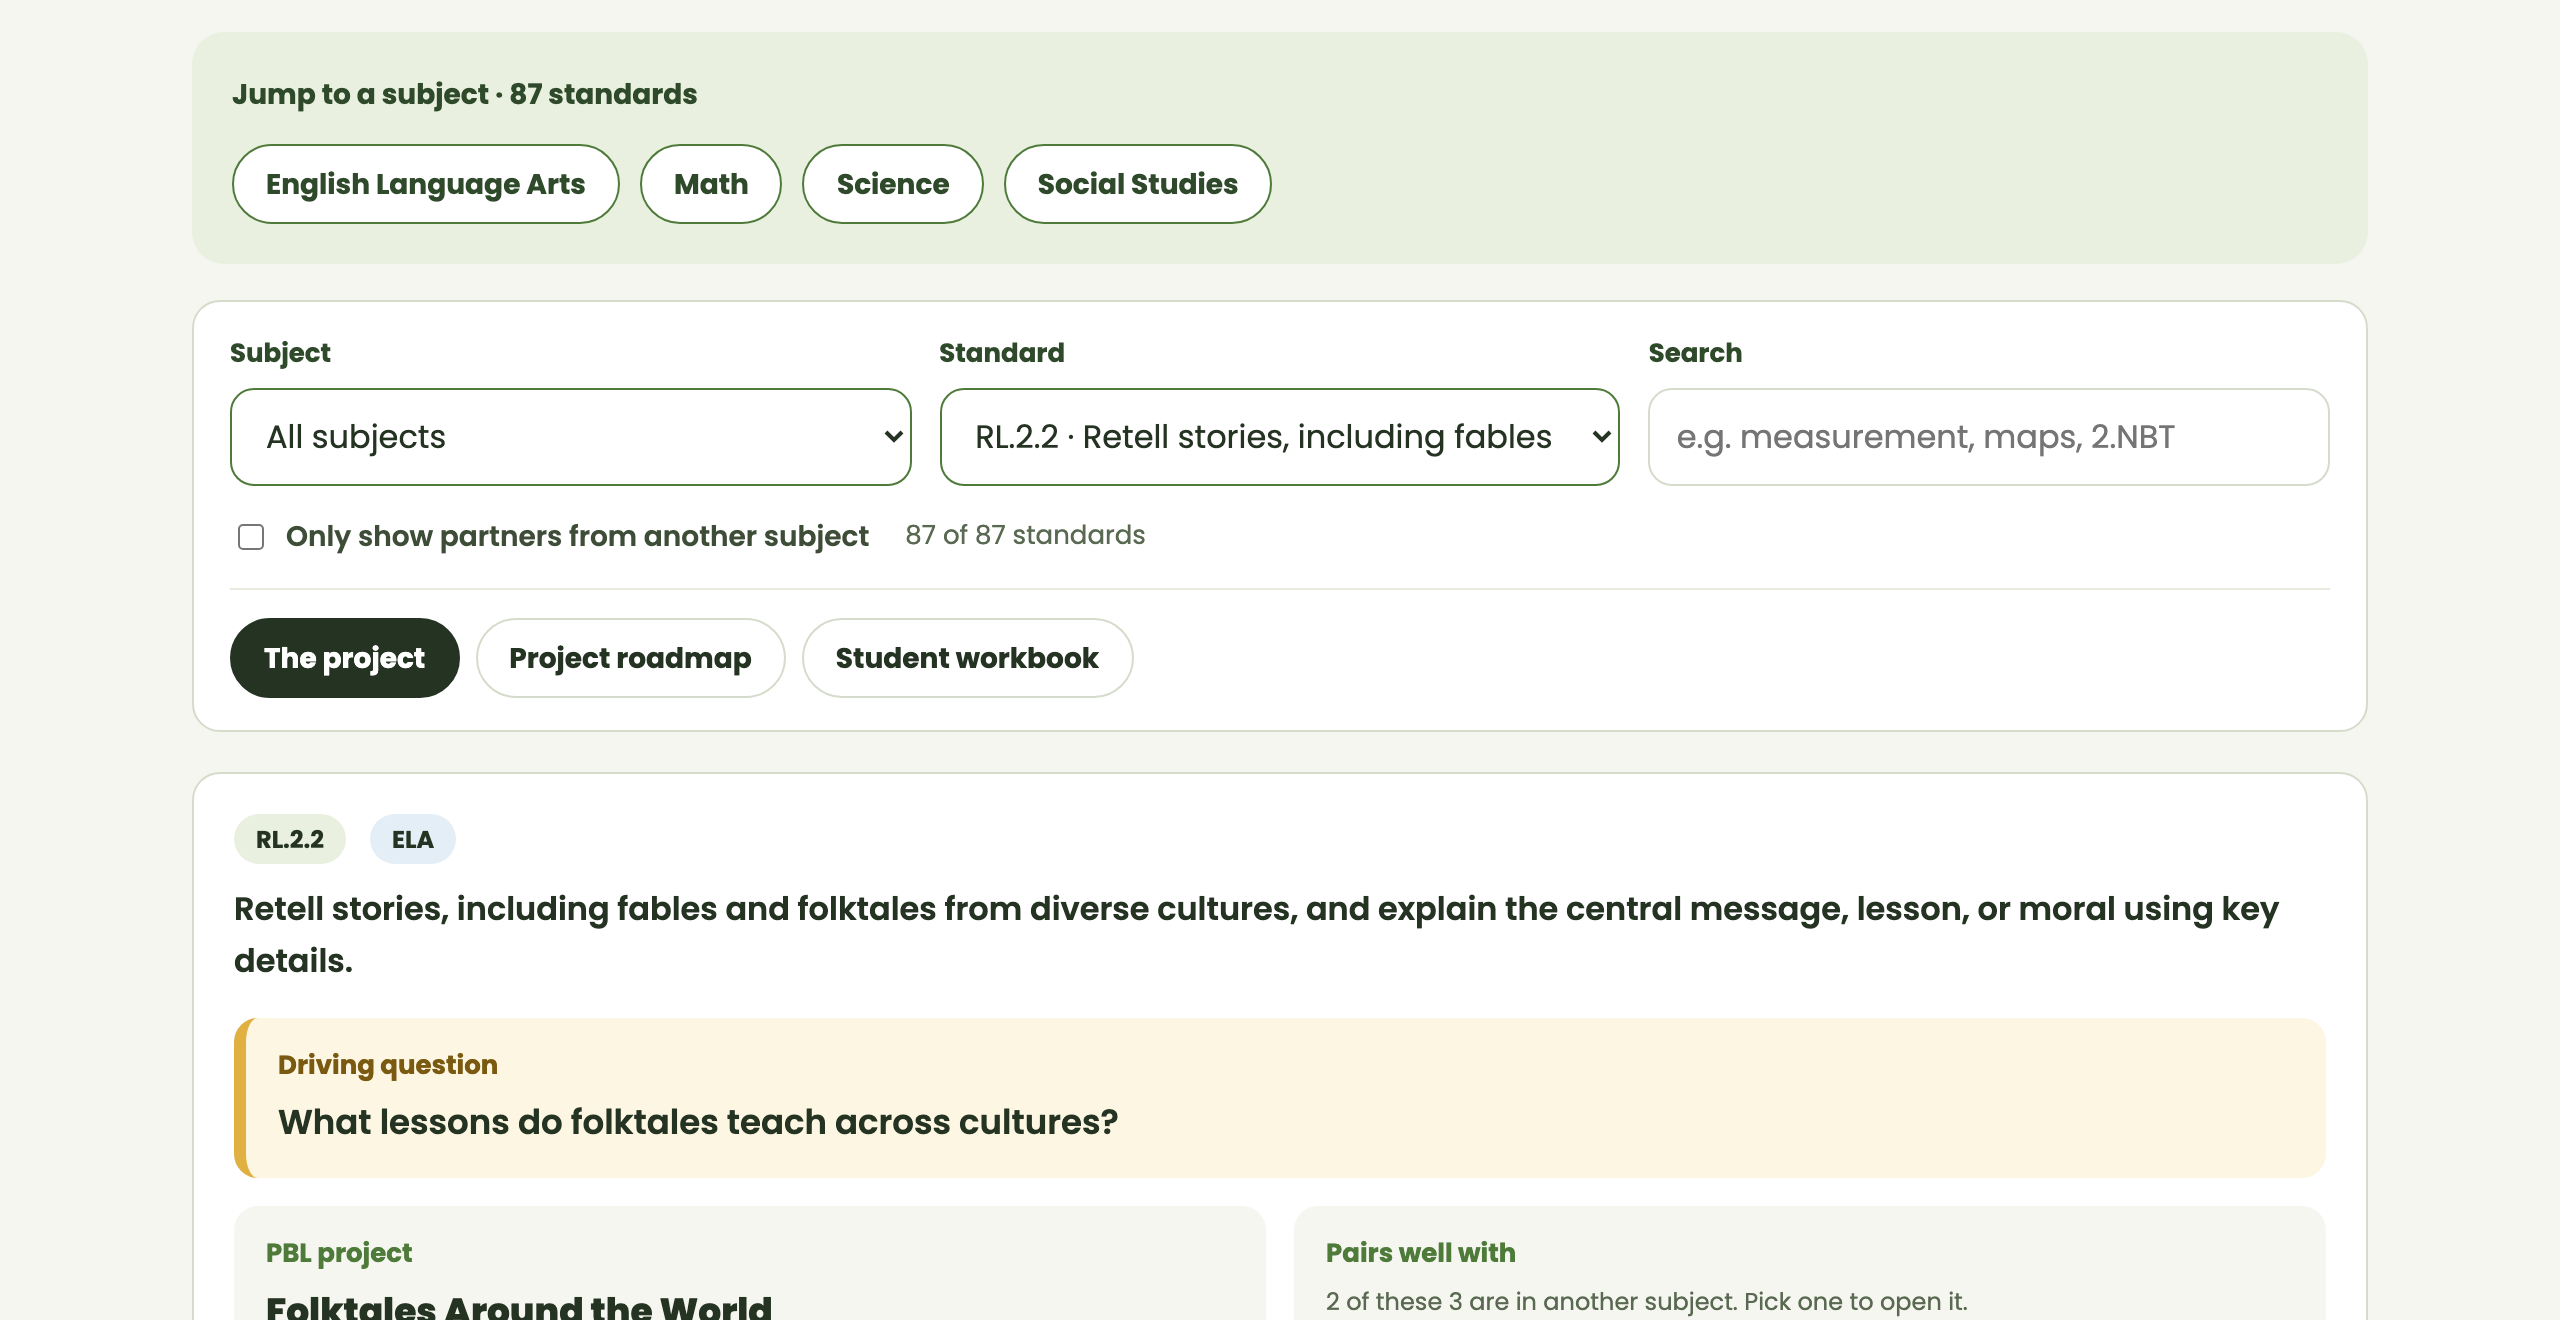
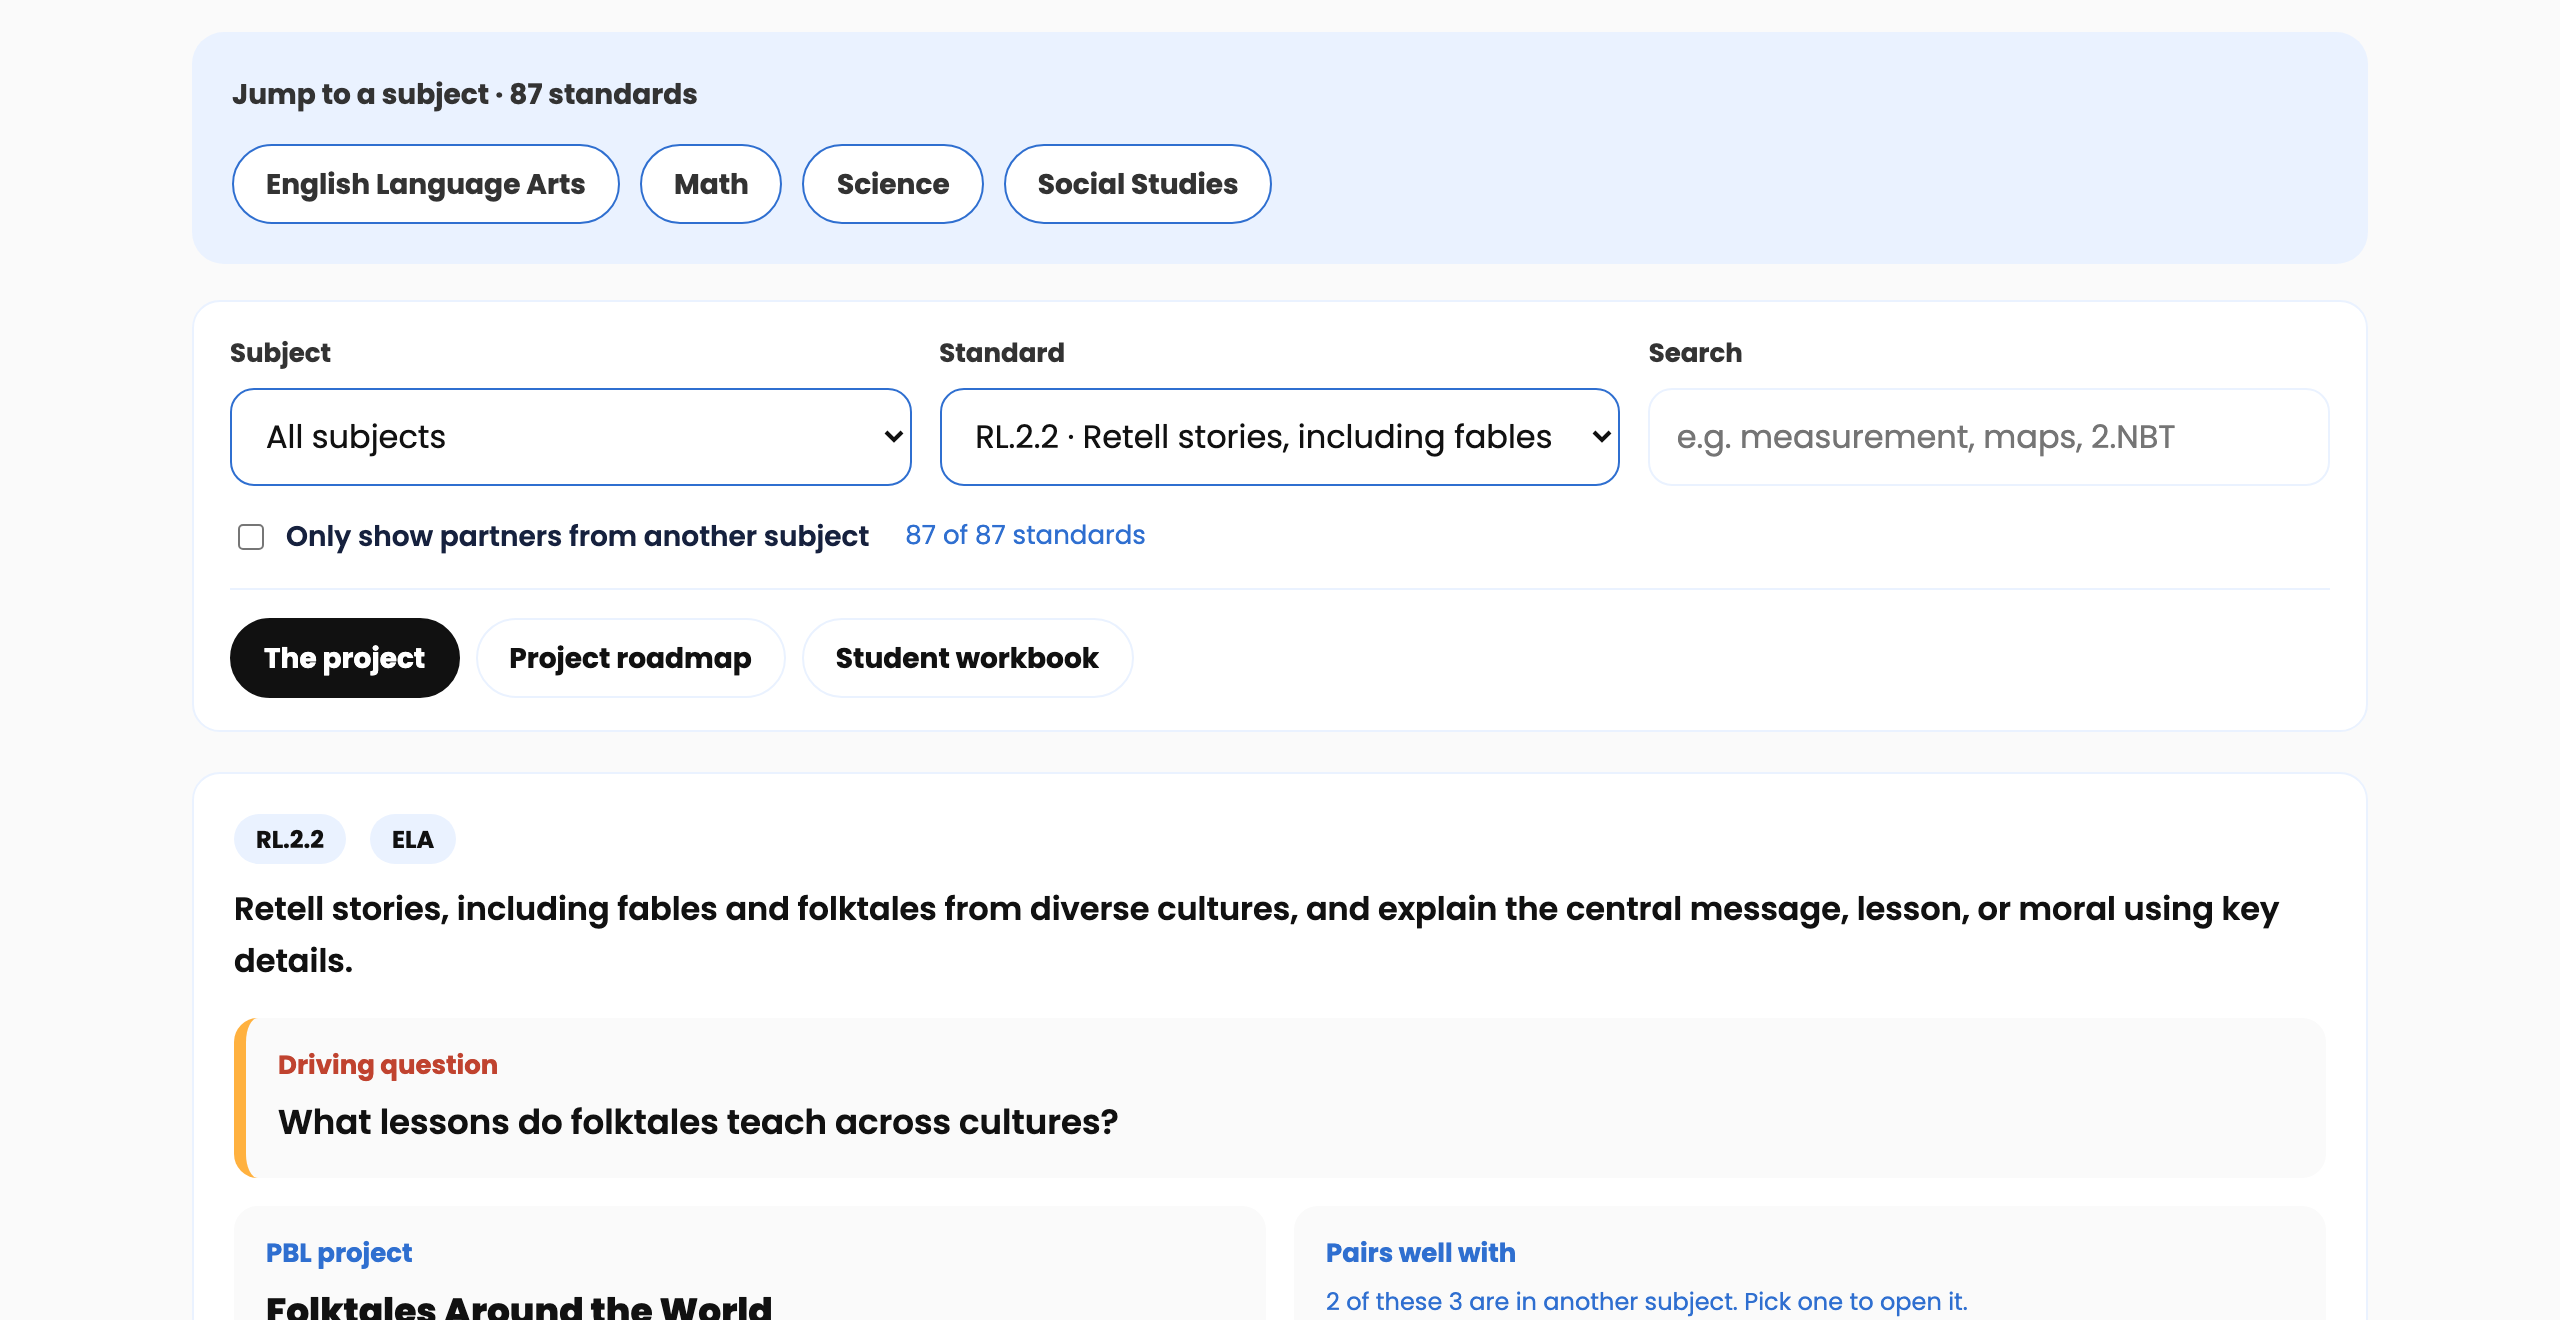
Size the Unscramble tiles to the card, and finish the recolour
A lesson card gives the puzzle about 270 pixels across, which three
tiles fill and nine do not: 200 of the 305 puzzles were wrapping onto
a second line, and the equals sign was ending a row. Smaller on the
card, where a teacher is planning; the workbook and the projector
keep them big, because that is where a child reads them. Three still
wrap, all nine-tile puzzles, which is the right place to give up.

The PBL hub joins the recolour, on blue — the accent of the card it
is opened from, as reading keeps teal and maths keeps lavender. Every
material on the site is now on the brand palette except Design
Thinking, which has a canvas palette of its own that nobody asked to
change.

Including it turned up a flaw worth keeping. The hub had no text
below AA at all, and recolouring it broke eight labels — matching
luminance put its near-white panels on gray-100 rather than gray-050,
six hundredths closer and enough to drop 4.6:1 to 4.36:1. Near-white
is paper, and this site has one paper colour, so anything above 0.86
luminance now goes to gray-050.

That one rule fixed the thing I could not fix last time: the OG
concept pack's 37 failing eyebrow labels, which were short of AA
before the recolour and still short after it.

  Science of Reading builder   31 below AA  ->   3
  Math Hub                     10 below AA  ->   0
  Basic Reading workbook        4 below AA  ->   0
  OG concept pack              38 below AA  ->   1
  PBL hub                       0 below AA  ->   0
[…]

diff --git a/scripts/seed-reading-materials.ts b/scripts/seed-reading-materials.ts
@@ -1532,9 +1532,14 @@ const EXPLICIT: Record<string, string> = { B42318: "E24F41", B00020: "E24F41", "
 const LUMS: Record<string, number[]> = {};
 for (const [k, ramp] of Object.entries(FAMILIES)) LUMS[k] = ramp.map(luminance);
 
-/** Reading keeps teal; maths keeps lavender, as their road maps do. */
+/**
+ * Each hub keeps the accent of the card it is opened from: teal for reading,
+ * lavender for maths, blue for projects.
+ */
 function accentFamily(rel: string): string {
-  return rel.startsWith("math/") ? "lavender" : "teal";
+  if (rel.startsWith("math/")) return "lavender";
+  if (rel.startsWith("pbl/")) return "blue";
+  return "teal";
 }
 
 function familyFor(hex: string, accent: string): string {
@@ -1562,6 +1567,13 @@ function familyFor(hex: string, accent: string): string {
 function brandFor(hex: string, accent: string): string {
   const up = hex.toUpperCase();
   if (EXPLICIT[up]) return EXPLICIT[up];
+  // Near-white is paper, and the brand has one paper colour.
+  //
+  // Nearest-luminance sent the PBL hub's #F5F6EF panels to gray-100 rather
+  // than gray-050 — six hundredths closer on paper, and enough to drop every
+  // small label on them from 4.6:1 to 4.36:1. A page that was white should
+  // come out the white this site uses.
+  if (luminance(up) > 0.86) return "FAFAFA";
   const fam = familyFor(up, accent);
   const want = luminance(up);
   const ramp = FAMILIES[fam], lums = LUMS[fam];
@@ -1579,12 +1591,9 @@ function brandFor(hex: string, accent: string): string {
   return ramp[best];
 }
 
-/**
- * Design Thinking has a canvas palette of its own that nobody asked to
- * change, and the PBL hub is a separate export on its own colours.
- */
+/** Design Thinking has a canvas palette of its own that nobody asked to change. */
 function recolours(rel: string): boolean {
-  return !rel.startsWith("design-thinking/") && !rel.startsWith("pbl/");
+  return !rel.startsWith("design-thinking/");
 }
 
 function recolour(rel: string, source: string): string {

diff --git a/content-reading-materials/math/math-hub.html b/content-reading-materials/math/math-hub.html
@@ -274,6 +274,14 @@ body.mb-only .mb { position: static; height: 100vh; }
 .uns-op { font-family: var(--display); font-weight: 800; font-size: 28px; color: #111111; padding: 0 3px; }
 .uns-big .uns-tile { width: 64px; height: 64px; font-size: 36px; }
 .uns-big .uns-op { font-size: 38px; }
+/* On a lesson card the row has about 270 pixels, which three tiles fill and
+   nine do not. Smaller here, so the equation reads as one line on the card
+   a teacher is planning from; the workbook and the projector keep them big,
+   because that is where a child reads them. */
+.step .uns { gap: 5px; }
+.step .uns-slot { gap: 3px; }
+.step .uns-tile { width: 29px; height: 29px; border-width: 3px; border-radius: 6px; font-size: 17px; }
+.step .uns-op { font-size: 18px; padding: 0 1px; }
 body.board .uns-tile { width: 72px; height: 72px; font-size: 40px; }
 body.board .uns-op { font-size: 42px; }
 @media (prefers-reduced-motion: reduce) { * { transition: none !important; animation: none !important; } }
